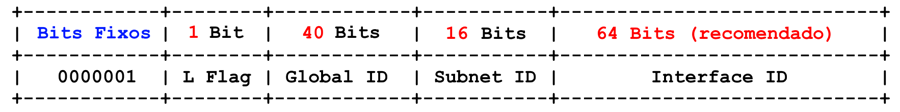
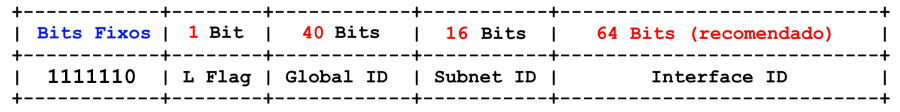
Escrevendo o Livro.

Changed region(s): [[0.0311, 0.6161, 0.1556, 0.75]]

diff --git a/docs/capitulo-7/enderecamento-ipv6.md b/docs/capitulo-7/enderecamento-ipv6.md
@@ -181,7 +181,7 @@ Observe que a alocação e a subdivisão para a criação das sub-redes ocorrem 
 
 Endereços do tipo _[ULA (Unique Local Addresses)](https://www.rfc-editor.org/rfc/rfc4193)_ estão contidos no bloco `FC00::/7` e são **_equivalentes aos endereços privados do IPv4_**.
 
-A utilização desses endereços segue os mesmos critérios dos endereços privados do IPv4 _([RFC 1918](https://www.rfc-editor.org/rfc/rfc1918))_. Esses endereços são utilizados exclusivamente para comunicação interna dentro das redes de uma organização e não devem aparecer ou ser roteados na Internet. Provedores de acesso à Internet bloqueiam esse tipo de endereço da mesma forma que ocorre com os endereços privados do IPv4.
+A utilização desses endereços segue os mesmos critérios dos endereços privados do IPv4 _([RFC 1918](https://www.rfc-editor.org/rfc/rfc1918))_. Esses endereços são utilizados exclusivamente para comunicação interna de um site e não devem aparecer ou ser roteados na Internet. Provedores de acesso à Internet bloqueiam esse tipo de endereço da mesma forma que ocorre com os endereços privados do IPv4.
 
 Como sabemos, a funcionalidade do _[NAT (Network Address Translation)](https://pt.wikipedia.org/wiki/Network_address_translation)_ para acesso à Internet a partir de uma rede interna IPv4 não se aplica a redes IPv6. Em uma interface de rede IPv6, é possível ter simultaneamente um endereço do tipo _[GUA (Global Unicast Addresses)](https://www.rfc-editor.org/rfc/rfc4291.html#section-2.5.4)_ e um endereço do tipo _[ULA (Unique Local Addresses)](https://www.rfc-editor.org/rfc/rfc4193)_. O sistema operacional geralmente escolhe automaticamente o endereço apropriado com base no tipo de comunicação que está sendo realizada.
 
@@ -194,7 +194,36 @@ Em resumo, o _[GUA](https://www.rfc-editor.org/rfc/rfc4291.html#section-2.5.4)_ 
 
 De acordo com a _[RFC 4193](https://www.rfc-editor.org/rfc/rfc4193)_, os endereços do tipo _[ULA](https://www.rfc-editor.org/rfc/rfc4193)_ possuem o seguinte formato:
 
-![alt_text](./img/ipv6-ula-1.png "Endereço IPv6 ULA")
+![alt_text](./img/ipv6-ula-1.png "Endereço IPv6 ULA #1")
+
+- **Bits Fixos**
+    - Os sete primeiros bits `1111110` do endereço são fixos e representam o prefixo `FC00::/7`, que identifica endereços do tipo _[ULA](https://www.rfc-editor.org/rfc/rfc4193)_. O bloco `FC00::/7` foi dividido em dois blocos `/8`: `FC00::/8` e `FD00::/8`.
+
+- **L Flag**
+    - A L Flag (ou Local Flag) é utilizada para identificar se o bloco de endereços é **global** ou **local**. Um valor de `0` indica que o bloco é destinado ao uso global, enquanto um valor `1` indica que o bloco é para uso local. 
+
+- **Global ID**
+    - Os `40 bits` são utilizados para identificar o prefixo que deve ser exclusivo de um site dentro de uma organização. Você verá que, recomenda-se que esses bits sejam gerados por meio de algoritmos específicos que produzem valores pseudo-aleatórios.
+    
+- **Subnet ID**
+    - Os `16 bits` são utilizados para identificar uma sub-rede dentro de um site e podem ser escolhidos livremente.
+
+- **Interface ID**
+    - Os `64 bits` são utilizados para identificar as interfaces de rede dentro de uma sub-rede. É recomendado utilizar todo o espaço de `64 bits`, nem menos nem mais, para endereçar as interfaces de rede.
+
+#### **L Flag**
+
+Para criar redes IPv6 usando prefixos privados de sua escolha, é necessário que o bit **L Flag** tenha o valor `1`. A especificação dos endereços _[ULA (Unique Local Address)](https://www.rfc-editor.org/rfc/rfc4193)_ estabelece que, quando esse bit está definido como `0`, o endereço representa um prefixo global. Por outro lado, um valor de `1` indica que o prefixo é destinado ao uso privado.
+
+A utilização do valor do bit em `0`, que define um prefixo _[ULA](https://www.rfc-editor.org/rfc/rfc4193)_ global `FC00::/8`, não foi amplamente aceita, pois a intenção é que esses prefixos sejam administrados e alocados às organizações a patir de autoridades de Internet. Em outras palavras, neste caso, para utilizar um prefixo para endereços privados em sua rede, é necessário solicitá-los a uma autoridade de Internet, em vez de usar um prefixo qualquer de sua escolha. A autoridade de Internet se encarregaria de garantir que as organizações utilizem blocos de endereços únicos e exclusivos.
+
+Para definir prefixos de uso local ou privado, é necessário que o bit **L Flag** esteja configurado com o valor `1`, formando assim o prefixo `FD00::/8`. Por fim, os prefixos _[ULA](https://www.rfc-editor.org/rfc/rfc4193)_ de uso privado estão contidos na faixa que vai de `FD00:0:0:0:0:0:0` até `FDff:ffff:ffff:ffff:ffff:ffff:ffff:ffff`, que pode ser representada de forma abreviada como `FD00::/8`. 
+
+![alt_text](./img/ipv6-ula-2.png "Endereço IPv6 ULA #2")
+
+Esse é o prefixo que você deve utilizar para as redes privadas da sua organização (`FD00::/8`).
+
+#### **Global ID**
 
 ## 7.2.x IPv6 no OCI
 

diff --git a/docs/index.md b/docs/index.md
@@ -33,7 +33,7 @@ Boa leitura!
 
 | Status              | Última Atualização | Versão   |
 |---------------------|--------------------|----------|
-| <span class="blink">Ainda escrevendo...</span> | 29/08/2025         | 1.0.0b   |
+| <span class="blink">Ainda escrevendo...</span> | 30/08/2025         | 1.0.0b   |
 
 ## Sumário
 
